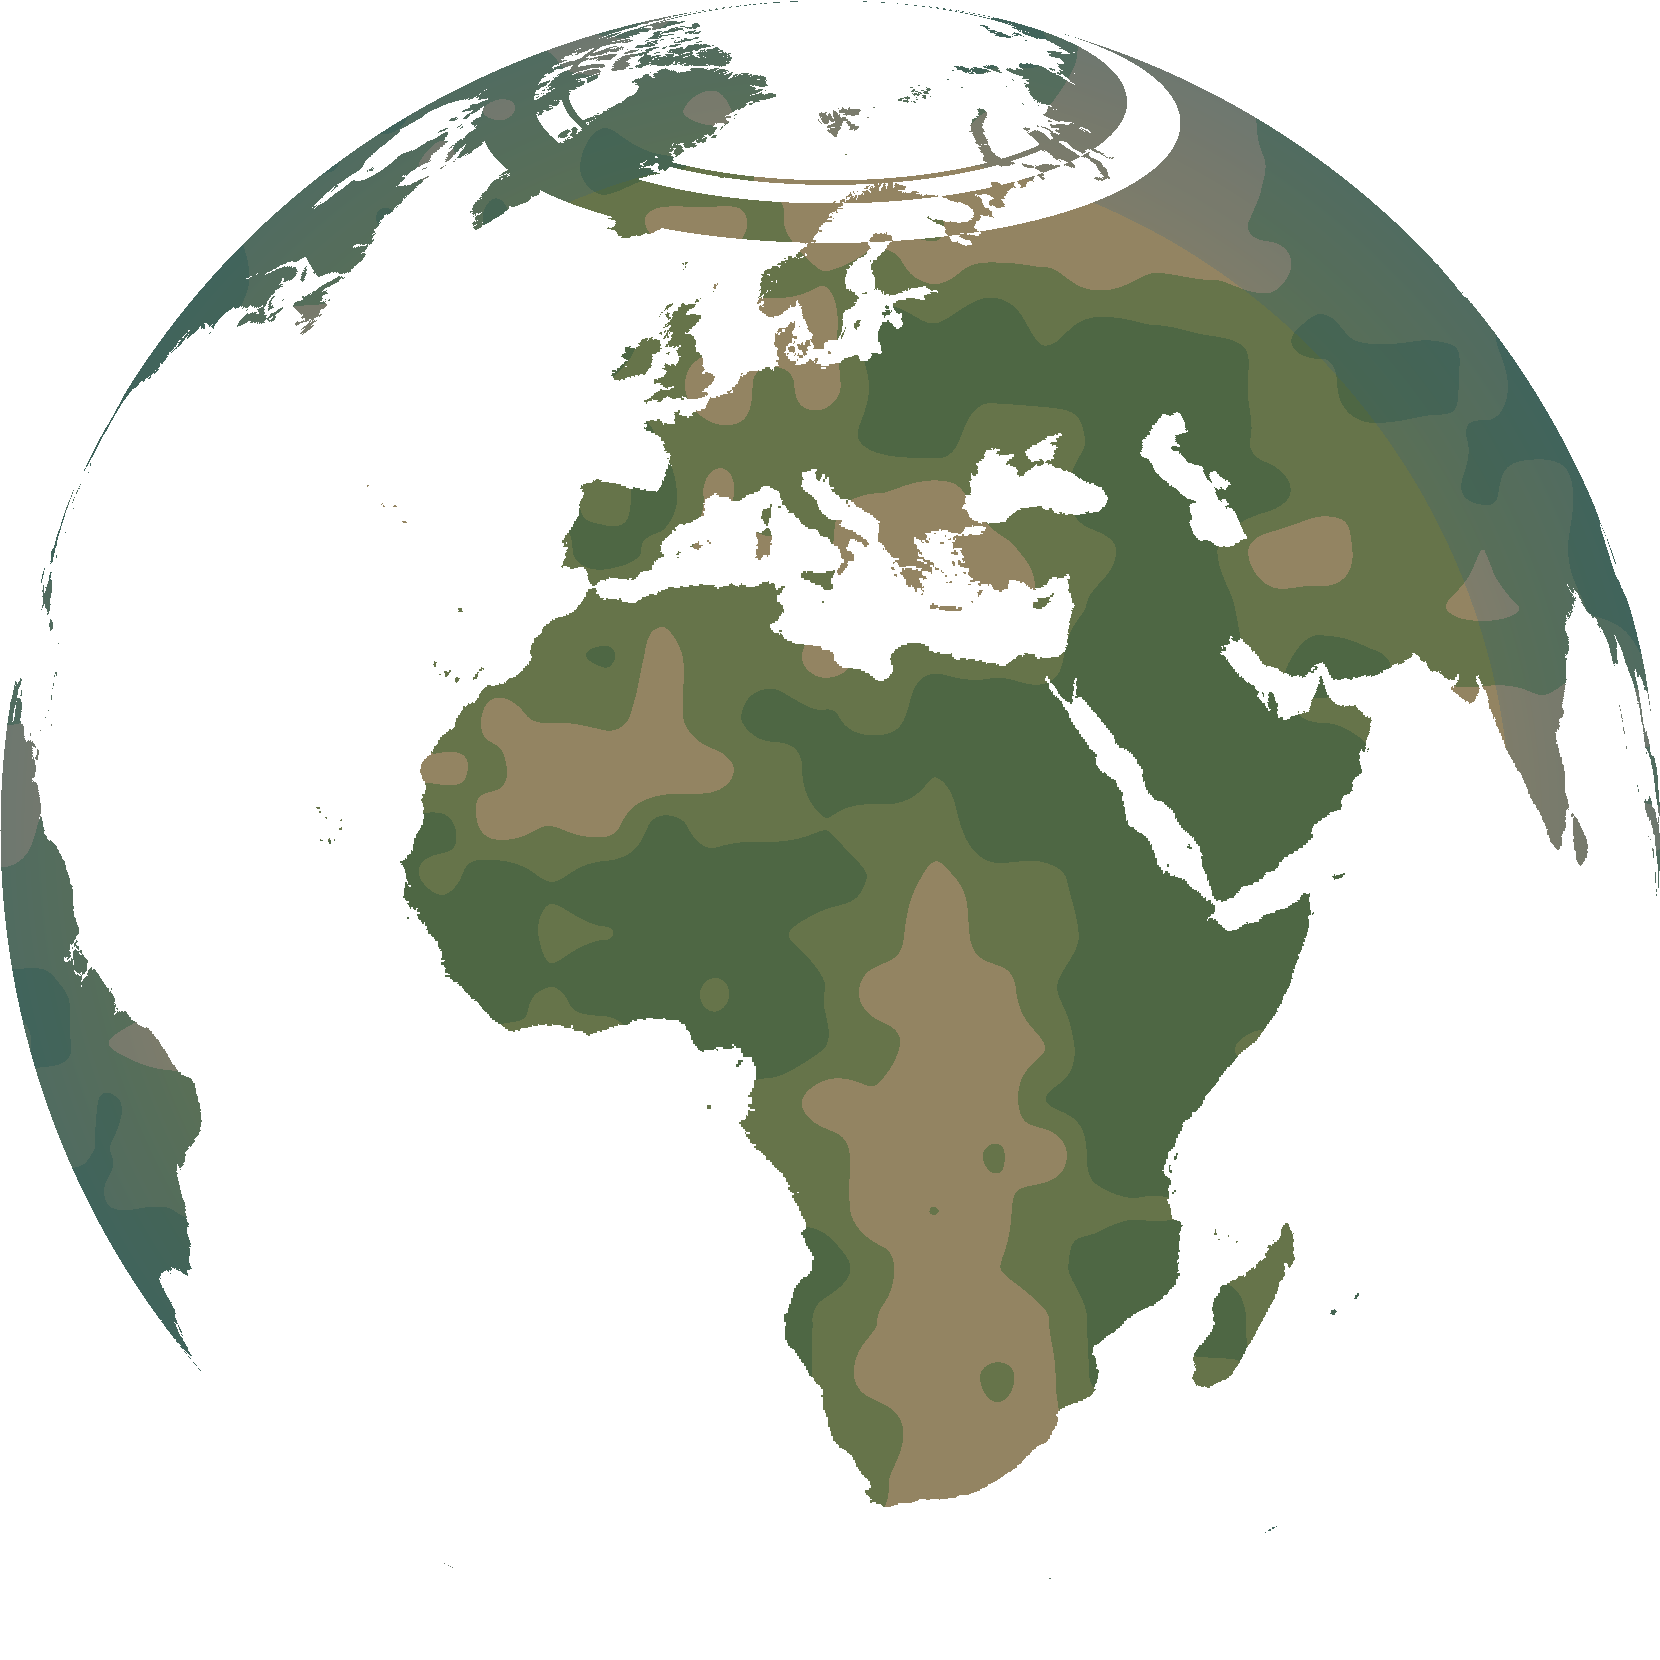
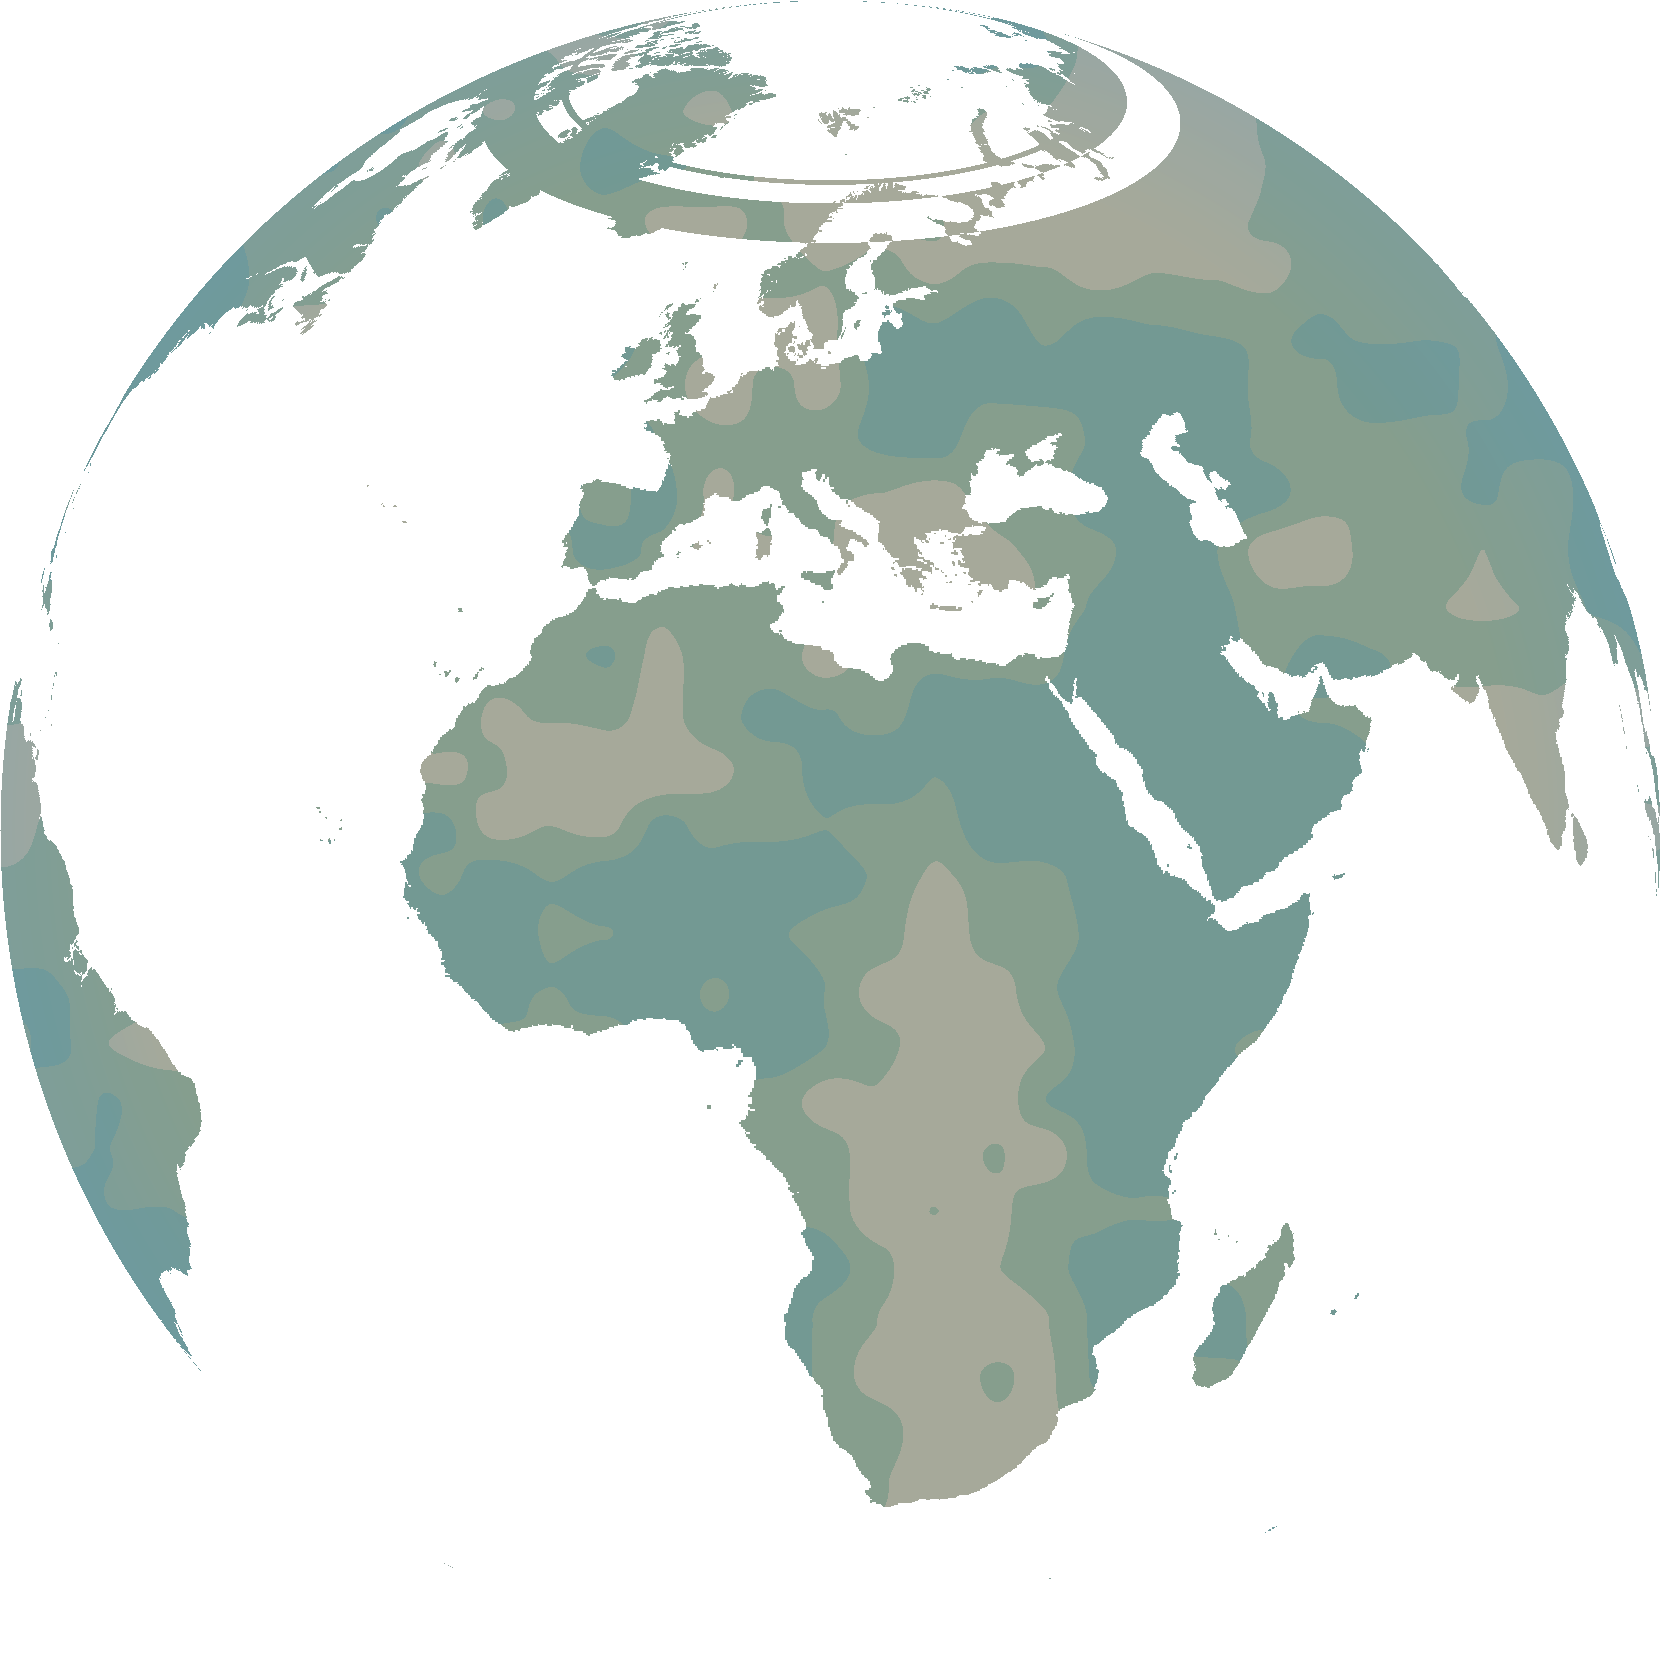
아케이드 천체 크기 실제 비율감 + 지구를 밝은 발광 행성 톤으로 (v0.13.0)
디자인 레퍼런스(밝은 하늘색 지구 + 백색 대기광 + 지평선 위 달) 반영.

- CELESTIALS: 지구 3.2u(지평선처럼 하단 가득)·달 0.55u(지구 대비 소형)·
  태양 1.1u(원반 작게, 글로우 넓게)
- bg-earth-master: 해양 밝은 하늘색, 대기 림 두껍고 하얗게 + 안쪽 백색 헤이즈,
  터미네이터 얕게, 구름 커버리지 소폭 증가
- 대륙 팔레트(gen:game): 파스텔 + 전면 22% 바다색 혼합
- bg-moon-master: 살짝 웜톤
- gen:game 재생성, worklog 후속 튠 항목 추가

Claude-Session: https://claude.ai/code/session_01U9rqme23Q5cTaMLKwVprGX

diff --git a/lib/arcade.ts b/lib/arcade.ts
@@ -138,12 +138,12 @@ export type Celestial = {
 
 // 화면 오프셋 = (x − cam) × parallax × unit. 시작(cam=0)에는 지구만 아래에 보이고,
 // 오른쪽으로 2~3유닛 날면 달, 5유닛쯤에서 태양, 왼쪽으로 가면 은하수가 나타나도록 배치.
-// 에셋은 design/m5-arcade 의 사실풍 webp(대기광·터미네이터 포함) — handoff-m5 §1:
-// 천체는 화면의 30~60% 를 차지하는 대형 오브젝트(웅장함), 패럴랙스 원경 0.3 대역.
+// 크기는 실제 비율감 기준(디자인 레퍼런스 2026-07-28): 지구는 지평선처럼 화면 하단을
+// 가득 채우는 초대형, 달은 지구보다 확연히 작게, 태양은 원반은 작지만 글로우가 넓게.
 export const CELESTIALS: readonly Celestial[] = [
-  { asset: "/game/bg-earth.webp", x: 0, y: 1.7, size: 2.6, parallax: 0.35 },
-  { asset: "/game/bg-moon.webp", x: 2.9, y: -0.8, size: 1.0, parallax: 0.4 },
-  { asset: "/game/bg-sun.webp", x: 5.6, y: 0.3, size: 1.8, parallax: 0.32 },
+  { asset: "/game/bg-earth.webp", x: 0, y: 2.0, size: 3.2, parallax: 0.35 },
+  { asset: "/game/bg-moon.webp", x: 2.9, y: -0.8, size: 0.55, parallax: 0.4 },
+  { asset: "/game/bg-sun.webp", x: 5.6, y: 0.3, size: 1.1, parallax: 0.32 },
   // 장식 위성(중경 0.6, 상호작용 없음 — FR-7.7 원근 연출은 후속)
   { asset: "/game/satellite.png", x: 1.9, y: 0.75, size: 0.34, parallax: 0.6 },
   { asset: "/game/satellite.png", x: -2.1, y: 1.0, size: 0.26, parallax: 0.65 },
